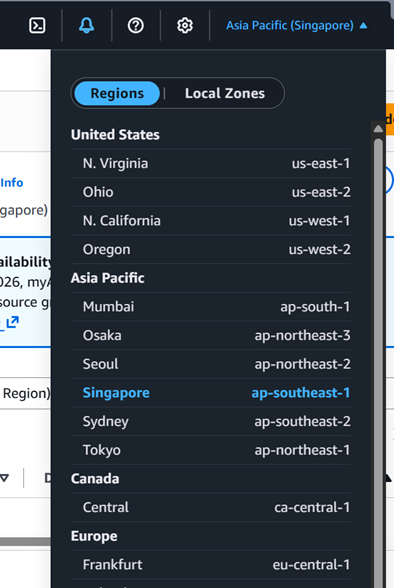
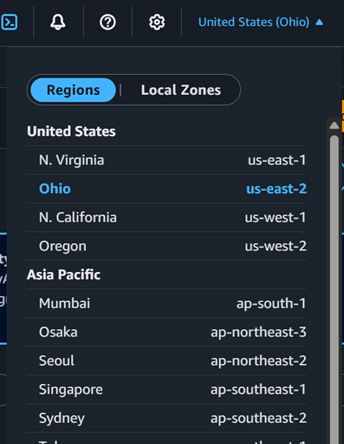
update

diff --git a/content/5-Workshop/5.3-AWS-VPC/5.3.1-create-vpc-subnets/_index.md b/content/5-Workshop/5.3-AWS-VPC/5.3.1-create-vpc-subnets/_index.md
@@ -43,17 +43,17 @@ The project needs 3 subnets:
 
 * **Subnet 1 (Public)**
   * **Subnet name:** `pm_public-subnet-1`
-  * **Availability Zone:** first AZ in your Region
+  * **Availability Zone:** `us-east-2a`
   * **IPv4 CIDR block:** `10.0.0.0/24`
 
 * **Subnet 2 (Private 1)**
   * **Subnet name:** `pm_private-subnet-1`
-  * **Availability Zone:** same AZ as the public subnet
+  * **Availability Zone:** `us-east-2a`
   * **IPv4 CIDR block:** `10.0.1.0/24`
 
 * **Subnet 3 (Private 2)**
   * **Subnet name:** `pm_private-subnet-2`
-  * **Availability Zone:** a different AZ
+  * **Availability Zone:** `us-east-2b` a different AZ
   * **IPv4 CIDR block:** `10.0.2.0/24`
 
 ![Create subnet](/images/5-Workshop/5.3-AWS-VPC/create-subnet.png)

diff --git a/content/5-Workshop/5.3-AWS-VPC/5.3.1-create-vpc-subnets/_index.vi.md b/content/5-Workshop/5.3-AWS-VPC/5.3.1-create-vpc-subnets/_index.vi.md
@@ -36,17 +36,17 @@ Hệ thống của chúng ta yêu cầu 3 Subnets: 1 Public Subnet cho EC2 và 2
 
 *   **Subnet 1 (Public):**
     *   **Subnet name:** `pm_public-subnet-1`
-    *   **Availability Zone:** `ap-southeast-1a`
+    *   **Availability Zone:** `us-east-2a`
     *   **IPv4 CIDR block:** `10.0.0.0/24`
 
 *   **Subnet 2 (Private 1):**
     *   **Subnet name:** `pm_private-subnet-1`
-    *   **Availability Zone:** `ap-southeast-1a`
+    *   **Availability Zone:** `us-east-2a`
     *   **IPv4 CIDR block:** `10.0.1.0/24`
 
 *   **Subnet 3 (Private 2 - Bắt buộc cho RDS):**
     *   **Subnet name:** `pm_private-subnet-2`
-    *   **Availability Zone:** `ap-southeast-1b` *(Khác với AZ của Subnet 1 & 2)*
+    *   **Availability Zone:** `us-east-2b` *(Khác với AZ của Subnet 1 & 2)*
     *   **IPv4 CIDR block:** `10.0.2.0/24`
 
 ![Create subnet button](/images/5-Workshop/5.3-AWS-VPC/create-subnet.png)

diff --git a/content/5-Workshop/5.2-Prerequiste/_index.md b/content/5-Workshop/5.2-Prerequiste/_index.md
@@ -11,8 +11,8 @@ pre : " <b> 5.2. </b> "
 To complete this workshop, you need an active AWS account. It is recommended to use a newly created account to take advantage of the **AWS Free Tier** (12 months free for many core services such as EC2, RDS).
 
 Throughout this Lab, to minimize latency and ensure consistency, we will select a single Region:
-* **Region Name:** `ap-southeast-1`
-* **Region Location:** Singapore
+* **Region Name:** `us-east-2`
+* **Region Location:** Ohio
 
 ![AWS Region Selection](/images/5-Workshop/5.2-Prerequisite/aws-region.png)
 

diff --git a/content/5-Workshop/5.2-Prerequiste/_index.vi.md b/content/5-Workshop/5.2-Prerequiste/_index.vi.md
@@ -12,8 +12,8 @@ pre : " <b> 5.2. </b> "
 
 
 Trong toàn bộ bài Lab này, để giảm thiểu độ trễ (latency) và đảm bảo tính thống nhất, chúng ta sẽ chọn chung một Khu vực (Region):
-*   **Region Name:** `ap-southeast-1`
-*   **Region Location:** Singapore
+*   **Region Name:** `us-east-2`
+*   **Region Location:** Ohio
 
 ![AWS Region Selection](/images/5-Workshop/5.2-Prerequisite/aws-region.png)
 